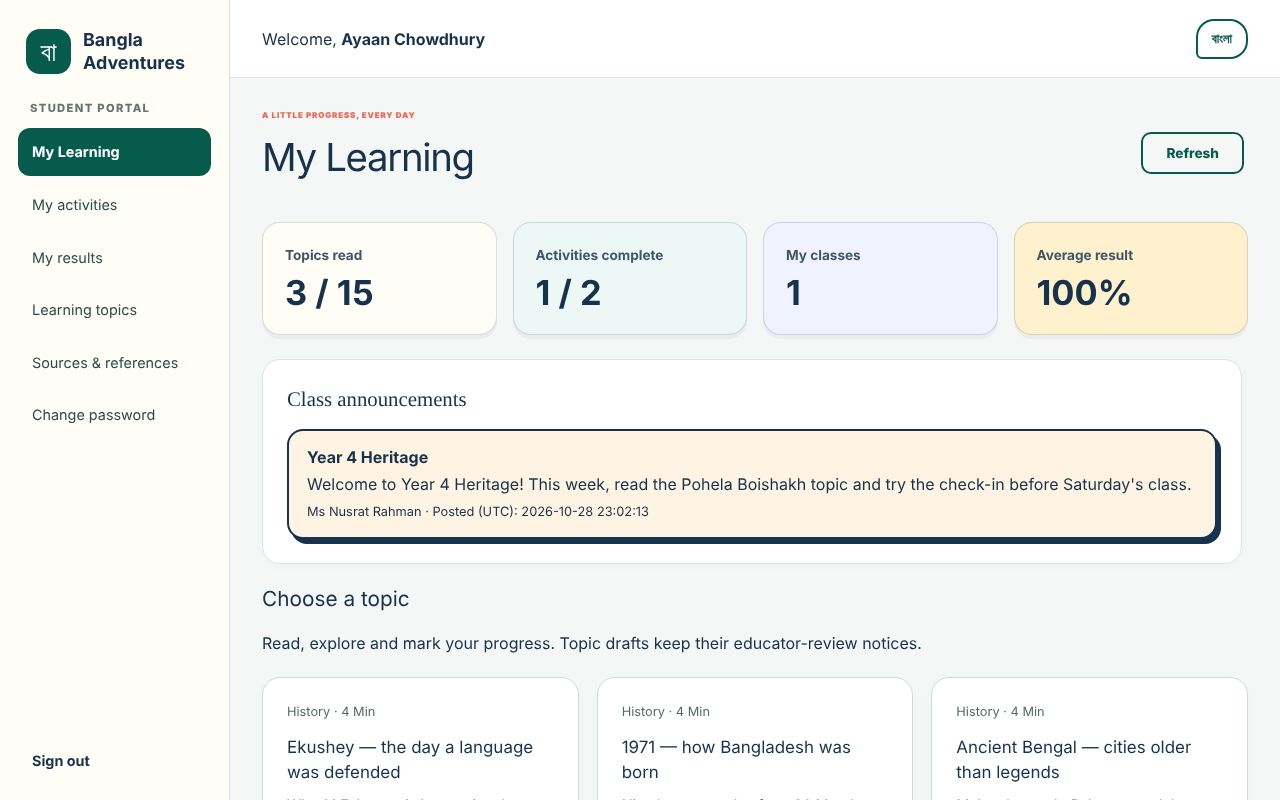
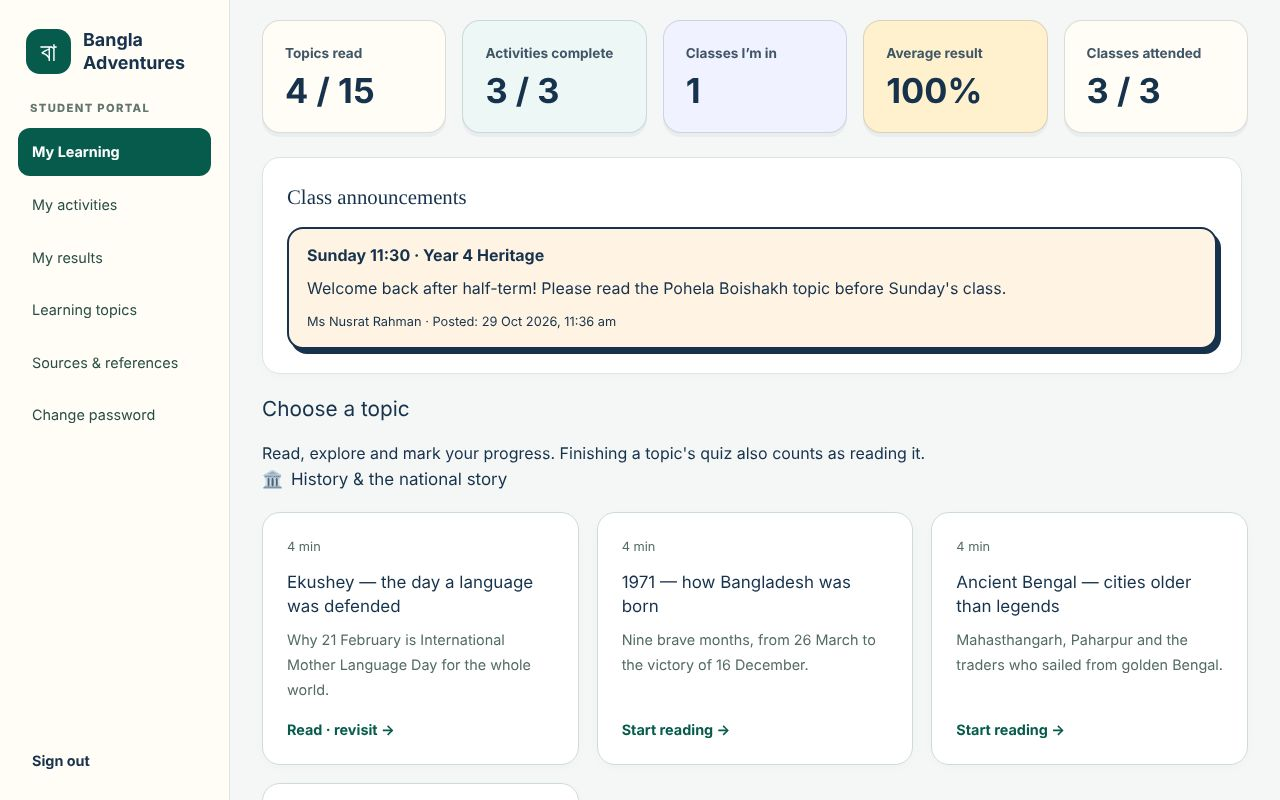
Show the new features in the README screenshots
Recaptured from a local build seeded with a fictional weekend school:
the family CSV sign-in sheet, a teacher previewing a topic in English
and Bangla before approving it, attendance, the gradebook, My Learning
and the parent dashboard with announcements. The topic pages no longer
show the old draft banner. The class-upload and admin-results images
are replaced by the family import and gradebook ones. The manifest and
ownership register list the new images.

diff --git a/README.md b/README.md
@@ -70,57 +70,80 @@ where they stand:
 <table>
 <tr>
 <td width="50%" valign="top">
-<img src="docs/screenshots/landing.jpg" alt="Bangla Adventures welcome page with Bagh the tiger on an illustrated river map">
-<p><b>Welcome page</b><br><sub>A bilingual front door for students, parents and teachers.</sub></p>
+<img src="docs/screenshots/family-import.jpg" alt="Administrator family import result: 7 student and 6 parent accounts created and added to the class, with a printable sign-in sheet for one parent and two children showing fictional temporary passwords">
+<p><b>Family CSV import</b><br><sub>Student name, parent name and parent e-mail become linked accounts and a sign-in sheet.</sub></p>
 </td>
 <td width="50%" valign="top">
-<img src="docs/screenshots/my-learning.jpg" alt="Student My Learning dashboard with progress cards, a class announcement and topics">
-<p><b>My Learning</b><br><sub>Progress, class announcements and topics in one place.</sub></p>
-</td>
-</tr>
-<tr>
-<td width="50%" valign="top">
-<img src="docs/screenshots/topic-reader.jpg" alt="Pohela Boishakh topic open in English with a draft-for-educator-review notice">
-<p><b>Topic reader</b><br><sub>Short readings that keep an honest educator-review notice.</sub></p>
-</td>
-<td width="50%" valign="top">
-<img src="docs/screenshots/topic-reader-bn.jpg" alt="The same Pohela Boishakh topic shown in Bangla">
-<p><b>The same topic in Bangla</b><br><sub>One tap switches the portal's language.</sub></p>
+<img src="docs/screenshots/topic-approval.jpg" alt="Staff preview of a teacher-written topic with its quiz shown side by side in English and Bangla, the ticked confirmation I have read the whole topic, including its quiz, in English and Bangla, and the Approve and publish to students button">
+<p><b>Topic approval</b><br><sub>A new topic previewed in English and Bangla side by side; approving needs the full-read tick.</sub></p>
 </td>
 </tr>
 <tr>
 <td width="50%" valign="top">
-<img src="docs/screenshots/teacher-class.jpg" alt="Teacher workspace after a CSV upload, showing the printable sign-in sheet with temporary passwords">
-<p><b>CSV class upload</b><br><sub>A class list becomes accounts and a printable sign-in sheet.</sub></p>
+<img src="docs/screenshots/teacher-attendance.jpg" alt="Attendance sheet for Sunday 25 October 2026 with six of seven students ticked present, one absent, and each student's attended-of-sessions total">
+<p><b>Attendance</b><br><sub>Everyone starts present; untick who was absent and save the date.</sub></p>
 </td>
 <td width="50%" valign="top">
-<img src="docs/screenshots/admin-results.jpg" alt="Administrator results page with a class's submissions, CSV download and reset actions">
-<p><b>Results for administrators</b><br><sub>Every class's grades, CSV export and audited resets.</sub></p>
+<img src="docs/screenshots/teacher-gradebook.jpg" alt="Teacher gradebook for a class of seven students: one row per student and one column per activity, dashes for work not submitted, then done, average and attendance columns">
+<p><b>Gradebook</b><br><sub>Students down, activities across, <code>—</code> for missing work, attendance at the end.</sub></p>
+</td>
+</tr>
+<tr>
+<td width="50%" valign="top">
+<img src="docs/screenshots/my-learning.jpg" alt="Student My Learning dashboard: topics read 4 of 15, activities 3 of 3, average result 100%, classes attended 3 of 3, a class announcement, and topic cards under the History and the national story category">
+<p><b>My Learning</b><br><sub>Progress, attendance, class notices and approved topics grouped by category.</sub></p>
+</td>
+<td width="50%" valign="top">
+<img src="docs/screenshots/parent-dashboard.jpg" alt="Parent dashboard headed Your children's learning for two linked children, with a parents-only announcement, an announcement for students and parents, and the first child's attendance: attended 3 of 3 classes">
+<p><b>Parent dashboard</b><br><sub>“Your children's learning”: parents-only notices and each child's attendance.</sub></p>
 </td>
 </tr>
 </table>
 
 <details>
-<summary><b>More screenshots</b>: topics hub and phone layout</summary>
+<summary><b>More screenshots</b>: welcome page, topics, the topic reader in both languages, lessons and the phone layout</summary>
 
 <br>
 
 <table>
 <tr>
+<td width="50%" valign="top">
+<img src="docs/screenshots/landing.jpg" alt="Bangla Adventures welcome page with Bagh the tiger on an illustrated river map">
+<p><b>Welcome page</b><br><sub>A bilingual front door for students, parents and teachers.</sub></p>
+</td>
+<td width="50%" valign="top">
+<img src="docs/screenshots/topics.jpg" alt="Student topics page with the Our country and Culture, crafts and celebrations categories, Read badges and a completed quiz result">
+<p><b>Topics by category</b><br><sub>Only approved topics, with read badges and quiz results.</sub></p>
+</td>
+</tr>
+<tr>
+<td width="50%" valign="top">
+<img src="docs/screenshots/topic-reader.jpg" alt="Approved Pohela Boishakh topic open in English for a student, with no draft notice">
+<p><b>Topic reader</b><br><sub>An approved topic as a student reads it.</sub></p>
+</td>
+<td width="50%" valign="top">
+<img src="docs/screenshots/topic-reader-bn.jpg" alt="The same Pohela Boishakh topic and the student menu shown in Bangla">
+<p><b>The same topic in Bangla</b><br><sub>One tap switches the portal's language.</sub></p>
+</td>
+</tr>
+</table>
+
+<table>
+<tr>
 <td width="75%" valign="top">
-<img src="docs/screenshots/topics.jpg" alt="Topics hub with culture and celebration topic cards and a completed quiz result">
-<p><b>Topics hub</b><br><sub>Culture, history and literature topics with review status and quiz results.</sub></p>
+<img src="docs/screenshots/lessons-studio.jpg" alt="Staff Lessons page with the Letters and numbers and Places and nature categories: one lesson approved by a teacher, the others approved as a baseline, each with a Preview lesson button">
+<p><b>Lessons by category</b><br><sub>The 18 lessons grouped by category, each with its approval status and who approved it.</sub></p>
 </td>
 <td width="25%" valign="top">
-<img src="docs/screenshots/mobile-student.jpg" alt="Student dashboard on a phone-sized screen" width="185">
-<p><b>On a phone</b><br><sub>The student dashboard at 390&nbsp;px wide.</sub></p>
+<img src="docs/screenshots/mobile-student.jpg" alt="Student My Learning dashboard on a phone-sized screen with progress cards, classes attended and a class announcement" width="185">
+<p><b>On a phone</b><br><sub>My Learning at 390&nbsp;px wide.</sub></p>
 </td>
 </tr>
 </table>
 
 </details>
 
-<sub>Captured from a local build seeded with fictional demo accounts; names and passwords are made up.</sub>
+<sub>Captured from a local build seeded with a fictional weekend school and fictional demo accounts; names, e-mail addresses and passwords are made up.</sub>
 
 ## Honest delivery status
 

diff --git a/docs/FILE_OWNERSHIP.md b/docs/FILE_OWNERSHIP.md
@@ -692,11 +692,15 @@ These files were added after the package import by the commits that created them
 - `docs/assets/readme-banner.jpg`
 - `docs/atlassian-role-mapping.json`
 - `docs/jira-task-mapping.json`
-- `docs/screenshots/admin-results.jpg`
+- `docs/screenshots/family-import.jpg`
 - `docs/screenshots/landing.jpg`
+- `docs/screenshots/lessons-studio.jpg`
 - `docs/screenshots/mobile-student.jpg`
 - `docs/screenshots/my-learning.jpg`
-- `docs/screenshots/teacher-class.jpg`
+- `docs/screenshots/parent-dashboard.jpg`
+- `docs/screenshots/teacher-attendance.jpg`
+- `docs/screenshots/teacher-gradebook.jpg`
+- `docs/screenshots/topic-approval.jpg`
 - `docs/screenshots/topic-reader-bn.jpg`
 - `docs/screenshots/topic-reader.jpg`
 - `docs/screenshots/topics.jpg`
